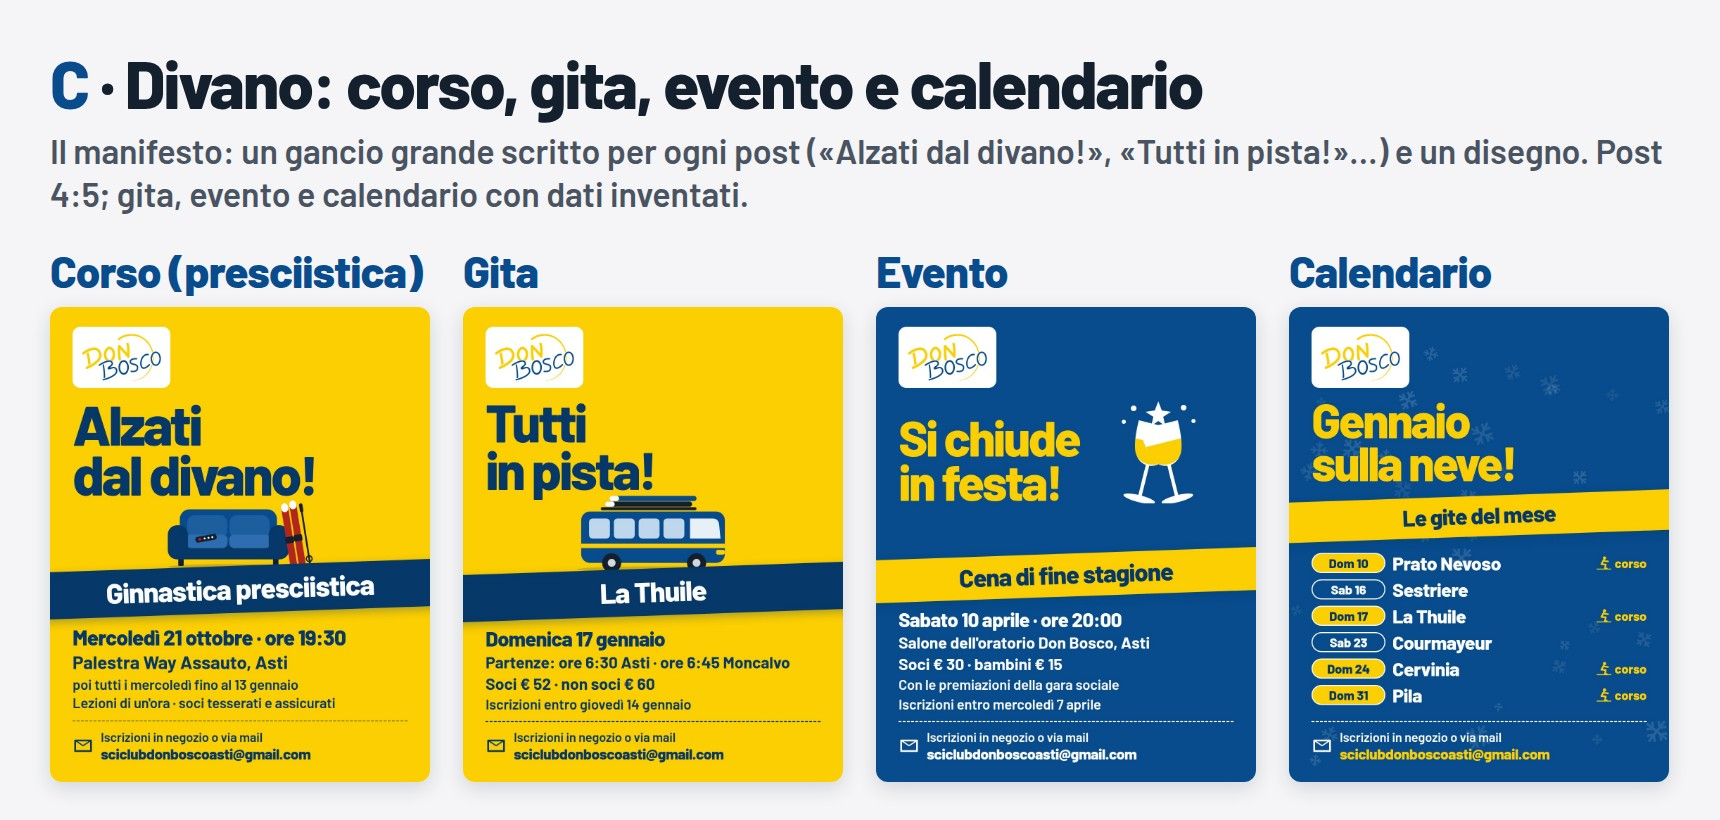
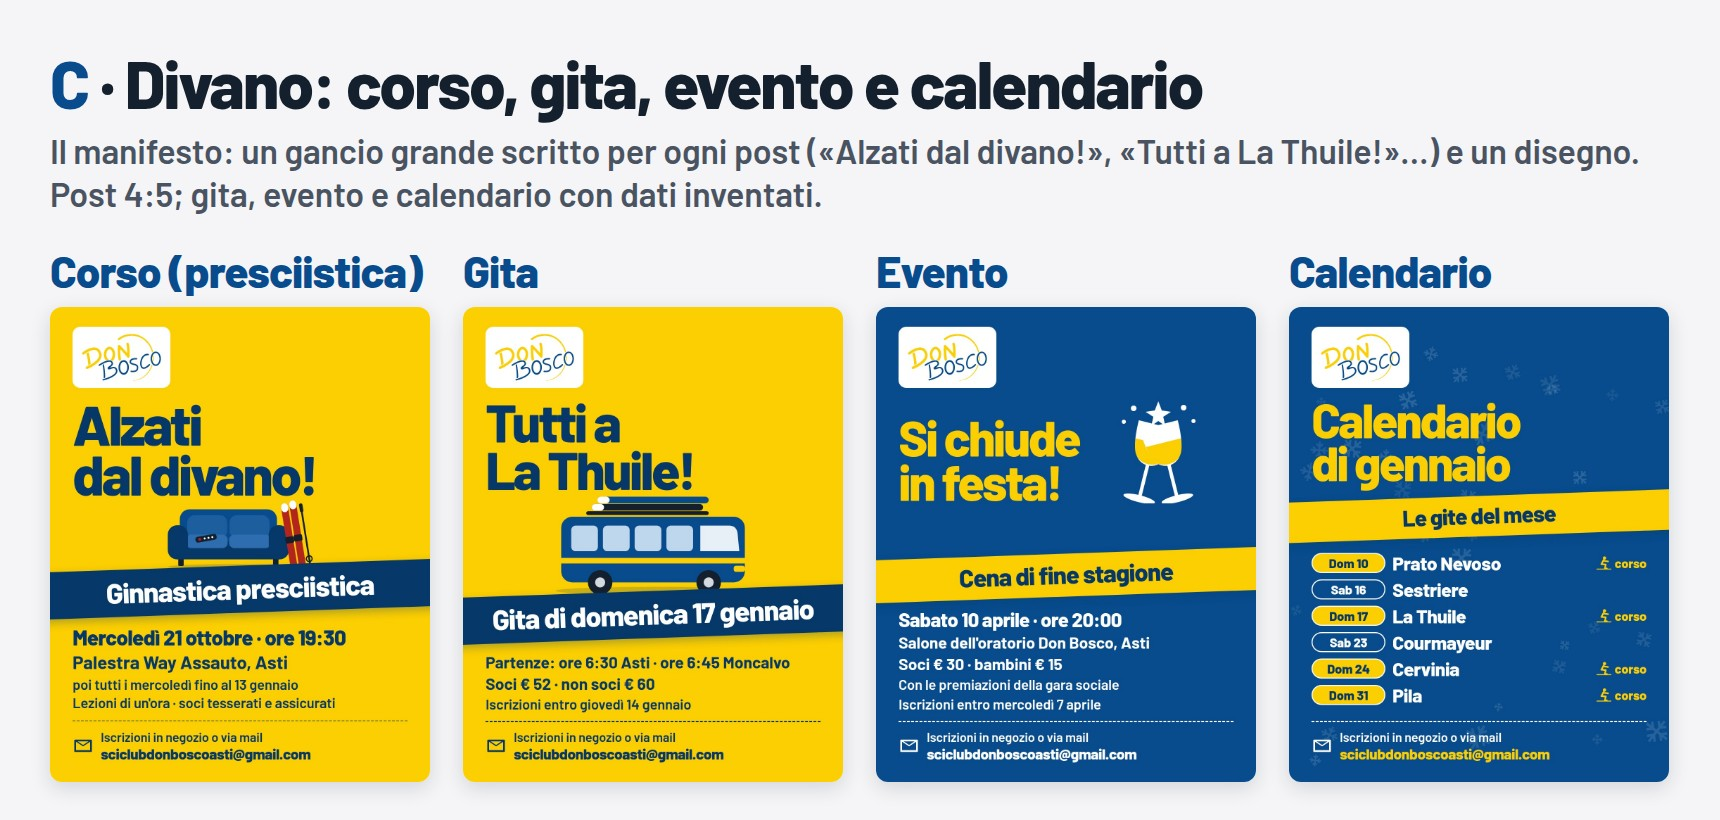
docs(social): tavole con le foto in A e titoli più chiari [skip ci]
In A la parte alta del biglietto porta la foto, come col generatore dei
post: la pista di La Thuile per la gita, una tavola apparecchiata per la
cena, una montagna innevata per il calendario (foto CC0 da Wikimedia
Commons). I titoli dicono cos'è il post: "Gita a La Thuile" invece del solo
posto, "Calendario di gennaio" invece di "Gennaio sulla neve"; in C il
gancio della gita è "Tutti a La Thuile!" e la data passa nel nastro.

diff --git a/grafica/proposte-presciistica-2026/sorgenti/tavole/gita-a.html b/grafica/proposte-presciistica-2026/sorgenti/tavole/gita-a.html
@@ -7,42 +7,21 @@
 <link rel="stylesheet" href="../comune.css">
 <link rel="stylesheet" href="a.css">
 <!-- Gita di domenica: il giallo del giorno (trip_days), come nel gestionale. -->
-<style>html { --cat: #FCCF02; --scena: 400px; }</style>
+<style>html { --cat: #FCCF02; --scena: 420px; }
+h1 { font-size: 100px; white-space: nowrap; }</style>
 </head>
 <body>
 <div class="cv">
   <div class="neve" data-neve=".5"></div>
   <div class="biglietto">
     <div class="scena">
-      <svg viewBox="0 0 1080 600" preserveAspectRatio="xMidYMax slice" aria-hidden="true">
-        <defs>
-          <linearGradient id="cielo" x1="0" y1="0" x2="0" y2="1"><stop offset="0" stop-color="#3E7CB8"/><stop offset=".75" stop-color="#BFD7EC"/></linearGradient>
-          <linearGradient id="neve" x1="0" y1="0" x2="0" y2="1"><stop offset="0" stop-color="#fff"/><stop offset="1" stop-color="#C9D7E4"/></linearGradient>
-        </defs>
-        <rect width="1080" height="600" fill="url(#cielo)"/>
-        <polygon fill="#8FA9C4" points="0,400 150,290 290,350 460,230 600,330 760,220 900,310 1080,250 1080,600 0,600"/>
-        <polygon fill="url(#neve)" points="0,480 200,360 340,430 560,300 740,430 900,360 1080,450 1080,600 0,600"/>
-        <polygon fill="#5E7890" opacity=".35" points="560,300 610,350 590,390 640,450 560,420 520,350"/>
-        <polygon fill="#2E4A63" points="0,540 140,500 260,530 420,490 600,540 800,500 1080,545 1080,600 0,600"/>
-        <polygon fill="#fff" points="0,585 1080,560 1080,600 0,600"/>
-      </svg>
-      <!-- Lo sciatore: la figura della presciistica, ora sugli sci e coi bastoncini. -->
-      <svg class="figura" viewBox="0 0 250 240" aria-hidden="true">
-        <rect x="4" y="208" width="242" height="14" rx="7" fill="#FCCF02"/>
-        <g stroke="#06396A" stroke-width="24" stroke-linecap="round" stroke-linejoin="round" fill="none">
-          <path d="M120 70 L84 136"/>
-          <path d="M114 82 L192 92"/>
-          <path d="M84 136 L154 142 L140 206 L172 206"/>
-        </g>
-        <path d="M190 92 L214 214" stroke="#14202E" stroke-width="8" stroke-linecap="round"/>
-        <circle cx="134" cy="38" r="25" fill="#06396A"/>
-      </svg>
+      <img class="foto" src="foto/gita-la-thuile.jpg" alt="La Thuile, la pista San Bernardo">
       <div class="logo-box"><img src="../../../logo/logo_sciclubdonbosco.svg" alt="Sci Club Don Bosco"></div>
       <div class="bollo"><div class="g">Domenica</div><div class="n">17/01</div></div>
     </div>
     <div class="taglio"><i></i></div>
     <div class="testo">
-      <h1>La Thuile</h1>
+      <h1>Gita a La Thuile</h1>
       <dl class="fatti">
         <dt>Partenze</dt><dd><span class="forte">ore 6:30</span> Asti<br><span class="forte">ore 6:45</span> Moncalvo</dd>
         <dt>Quota</dt><dd>soci € 52 · non soci € 60</dd>

diff --git a/grafica/proposte-presciistica-2026/sorgenti/tavole/calendario-a.html b/grafica/proposte-presciistica-2026/sorgenti/tavole/calendario-a.html
@@ -33,23 +33,13 @@ h1 { font-size: 100px; }
   <div class="neve" data-neve=".3"></div>
   <div class="biglietto">
     <div class="scena">
-      <svg viewBox="0 0 1080 600" preserveAspectRatio="xMidYMax slice" aria-hidden="true">
-        <defs>
-          <linearGradient id="cielo" x1="0" y1="0" x2="0" y2="1"><stop offset="0" stop-color="#3E7CB8"/><stop offset=".75" stop-color="#BFD7EC"/></linearGradient>
-          <linearGradient id="neve" x1="0" y1="0" x2="0" y2="1"><stop offset="0" stop-color="#fff"/><stop offset="1" stop-color="#C9D7E4"/></linearGradient>
-        </defs>
-        <rect width="1080" height="600" fill="url(#cielo)"/>
-        <polygon fill="#8FA9C4" points="0,400 150,290 290,350 460,230 600,330 760,220 900,310 1080,250 1080,600 0,600"/>
-        <polygon fill="url(#neve)" points="0,480 200,360 340,430 560,300 740,430 900,360 1080,450 1080,600 0,600"/>
-        <polygon fill="#2E4A63" points="0,540 140,500 260,530 420,490 600,540 800,500 1080,545 1080,600 0,600"/>
-        <polygon fill="#fff" points="0,585 1080,560 1080,600 0,600"/>
-      </svg>
+      <img class="foto" src="foto/calendario-montagna.jpg" alt="Montagna innevata">
       <div class="logo-box"><img src="../../../logo/logo_sciclubdonbosco.svg" alt="Sci Club Don Bosco"></div>
       <div class="bollo"><div class="g">Gennaio</div><div class="n">2027</div></div>
     </div>
     <div class="taglio"><i></i></div>
     <div class="testo">
-      <h1>Gennaio sulla neve</h1>
+      <h1>Calendario di gennaio</h1>
       <div class="righe">
         <div><span class="giorno dom">Dom 10/01</span><span class="meta">Prato Nevoso</span><span class="corso"><svg><use href="#sciatore"/></svg>Corso</span></div>
         <div><span class="giorno sab">Sab 16/01</span><span class="meta">Sestriere</span></div>

diff --git a/grafica/proposte-presciistica-2026/sorgenti/tavole/evento-a.html b/grafica/proposte-presciistica-2026/sorgenti/tavole/evento-a.html
@@ -17,23 +17,7 @@ h1 { font-size: 100px; }
   <div class="neve" data-neve=".3"></div>
   <div class="biglietto">
     <div class="scena">
-      <svg viewBox="0 0 1080 600" preserveAspectRatio="xMidYMax slice" aria-hidden="true">
-        <defs>
-          <linearGradient id="sera" x1="0" y1="0" x2="0" y2="1"><stop offset="0" stop-color="#06396A"/><stop offset=".8" stop-color="#3E7CB8"/></linearGradient>
-        </defs>
-        <rect width="1080" height="600" fill="url(#sera)"/>
-        <polygon fill="#2E5F92" points="0,400 150,290 290,350 460,230 600,330 760,220 900,310 1080,250 1080,600 0,600"/>
-        <polygon fill="#C9D7E4" points="0,480 200,360 340,430 560,300 740,430 900,360 1080,450 1080,600 0,600"/>
-        <polygon fill="#14304F" points="0,540 140,500 260,530 420,490 600,540 800,500 1080,545 1080,600 0,600"/>
-        <polygon fill="#fff" points="0,585 1080,560 1080,600 0,600"/>
-        <!-- Il filo delle lucine, da un lato all'altro. -->
-        <path d="M380 330 Q620 430 1080 330" fill="none" stroke="#14202E" stroke-width="4"/>
-        <g fill="#FCCF02">
-          <circle cx="440" cy="355" r="13"/><circle cx="520" cy="374" r="13"/><circle cx="600" cy="382" r="13"/>
-          <circle cx="680" cy="381" r="13"/><circle cx="760" cy="374" r="13"/><circle cx="840" cy="362" r="13"/>
-          <circle cx="920" cy="350" r="13"/><circle cx="1000" cy="338" r="13"/>
-        </g>
-      </svg>
+      <img class="foto" src="foto/evento-cena.jpg" alt="Tavola apparecchiata">
       <div class="logo-box"><img src="../../../logo/logo_sciclubdonbosco.svg" alt="Sci Club Don Bosco"></div>
       <div class="bollo"><div class="g">Sabato</div><div class="n">10/04</div></div>
     </div>

diff --git a/grafica/proposte-presciistica-2026/sorgenti/tavole/tavola.html b/grafica/proposte-presciistica-2026/sorgenti/tavole/tavola.html
@@ -27,9 +27,9 @@ img { display: block; width: 380px; border-radius: 12px; box-shadow: 0 6px 20px 
 </div>
 <script>
 const PROPOSTE = {
-  a: { nome: "Biglietto", corso: "a-biglietto", idea: "Il biglietto bianco sul colore del post: giallo il corso e la gita della domenica, blu l'evento e il calendario." },
+  a: { nome: "Biglietto", corso: "a-biglietto", idea: "Il biglietto bianco sul colore del post, in alto la foto caricata nel generatore (senza foto, il disegno)." },
   b: { nome: "Calendario", corso: "b-calendario", idea: "Sempre il blu del club; il foglio a strappo porta la data, il calendario diventa il mese intero." },
-  c: { nome: "Divano", corso: "c-divano", idea: "Il manifesto: un gancio grande scritto per ogni post («Alzati dal divano!», «Tutti in pista!»…) e un disegno." },
+  c: { nome: "Divano", corso: "c-divano", idea: "Il manifesto: un gancio grande scritto per ogni post («Alzati dal divano!», «Tutti a La Thuile!»…) e un disegno." },
 };
 const chiave = location.hash.slice(1) in PROPOSTE ? location.hash.slice(1) : "a", p = PROPOSTE[chiave];
 document.getElementById("titolo").innerHTML = `<b>${chiave.toUpperCase()}</b> · ${p.nome}: corso, gita, evento e calendario`;

diff --git a/grafica/proposte-presciistica-2026/sorgenti/tavole/gita-c.html b/grafica/proposte-presciistica-2026/sorgenti/tavole/gita-c.html
@@ -15,7 +15,7 @@
     <div class="testa">
       <div class="logo-box"><img src="../../../logo/logo_sciclubdonbosco.svg" alt="Sci Club Don Bosco"></div>
     </div>
-    <div class="gancio">Tutti<br>in pista!</div>
+    <div class="gancio">Tutti a<br>La Thuile!</div>
     <div class="scena">
       <!-- Il pullman della gita, con gli sci sul tetto. -->
       <svg viewBox="0 0 780 370" preserveAspectRatio="xMidYMax meet" aria-hidden="true">
@@ -37,9 +37,8 @@
         <circle cx="590" cy="322" r="44" fill="#14202E"/><circle cx="590" cy="322" r="18" fill="#D5DAE1"/>
       </svg>
     </div>
-    <div class="nastro">La Thuile</div>
+    <div class="nastro">Gita di domenica 17 gennaio</div>
     <div class="info">
-      <div class="quando">Domenica 17 gennaio</div>
       <div class="riga">Partenze: ore 6:30 Asti · ore 6:45 Moncalvo</div>
       <div class="riga">Soci € 52 · non soci € 60</div>
       <div class="poi">Iscrizioni entro giovedì 14 gennaio</div>

diff --git a/grafica/proposte-presciistica-2026/sorgenti/tavole/a.css b/grafica/proposte-presciistica-2026/sorgenti/tavole/a.css
@@ -11,6 +11,8 @@ html { --m: 60px; --scena: 330px; --accento: var(--blu); }
 
 .scena { position: relative; flex: 0 0 var(--scena); }
 .scena > svg { position: absolute; inset: 0; width: 100%; height: 100%; }
+/* La foto della meta, quella caricata nel generatore dei post. */
+.scena .foto { position: absolute; inset: 0; width: 100%; height: 100%; object-fit: cover; }
 .scena .figura { position: absolute; top: auto; right: auto; left: 400px; bottom: 14px; width: auto; height: calc(var(--scena) * .62); }
 .scena .logo-box { position: absolute; left: 0; top: 0; padding: 18px 26px; border-radius: 0 0 28px 0; }
 .scena .logo-box img { height: 150px; }

diff --git a/grafica/proposte-presciistica-2026/sorgenti/tavole/calendario-c.html b/grafica/proposte-presciistica-2026/sorgenti/tavole/calendario-c.html
@@ -33,7 +33,7 @@ html { --cat: #084C8D; --cat-ink: #fff; --gancio: #FCCF02; --nastro: #FCCF02; --
     <div class="testa">
       <div class="logo-box"><img src="../../../logo/logo_sciclubdonbosco.svg" alt="Sci Club Don Bosco"></div>
     </div>
-    <div class="gancio">Gennaio<br>sulla neve!</div>
+    <div class="gancio">Calendario<br>di gennaio</div>
     <div class="nastro">Le gite del mese</div>
     <div class="righe">
       <div><span class="giorno dom">Dom 10</span><span class="meta">Prato Nevoso</span><span class="corso"><svg><use href="#sciatore"/></svg>corso</span></div>

diff --git a/grafica/proposte-presciistica-2026/sorgenti/tavole/calendario-b.html b/grafica/proposte-presciistica-2026/sorgenti/tavole/calendario-b.html
@@ -42,7 +42,7 @@ html { --cat: #FCCF02; --cat-ink: #06396A; }
     <div class="testa">
       <div class="logo-box"><img src="../../../logo/logo_sciclubdonbosco.svg" alt="Sci Club Don Bosco"></div>
     </div>
-    <div class="titolo">Gennaio sulla neve</div>
+    <div class="titolo">Calendario di gennaio</div>
     <div class="mese-intero">
       <div class="anello" style="left:22%"></div><div class="anello" style="right:22%"></div>
       <div class="mese">Gennaio 2027</div>

diff --git a/grafica/proposte-presciistica-2026/sorgenti/tavole/gita-b.html b/grafica/proposte-presciistica-2026/sorgenti/tavole/gita-b.html
@@ -21,7 +21,7 @@
     <div class="testa">
       <div class="logo-box"><img src="../../../logo/logo_sciclubdonbosco.svg" alt="Sci Club Don Bosco"></div>
     </div>
-    <div class="titolo">La Thuile</div>
+    <div class="titolo">Gita a La Thuile</div>
     <div class="centro">
       <div class="foglio">
         <div class="anello" style="left:26%"></div><div class="anello" style="right:26%"></div>

diff --git a/grafica/proposte-presciistica-2026/README.md b/grafica/proposte-presciistica-2026/README.md
@@ -167,8 +167,15 @@ solo post 4:5 (niente story).
 - **Giallo dei corsi e domeniche:** sono lo stesso giallo. Nel calendario il
   corso è un'etichetta contornata, non piena, per non confondersi.
 - **C** è "Divano" per la presciistica; sugli altri post il gancio cambia
-  ("Tutti in pista!", "Si chiude in festa!") e va scritto post per post: è la
-  grafica che chiede più lavoro a chi pubblica.
+  ("Tutti a La Thuile!", "Si chiude in festa!") e va scritto post per post: è
+  la grafica che chiede più lavoro a chi pubblica. Il gancio dice dove si va,
+  la data sta nel nastro.
+- **Titoli che dicono cos'è:** "Gita a La Thuile", non solo il posto;
+  "Calendario di gennaio" per il calendario del mese.
+- **A con la foto:** in alto la foto caricata nel generatore (gita, cena,
+  calendario); senza foto resta il disegno, come nel corso. Foto d'esempio da
+  Wikimedia Commons, libere (CC0): pista San Bernardo e Ponteilles a La Thuile
+  di DimiTalen, la tavola apparecchiata da Unsplash.
 
 ---
 
